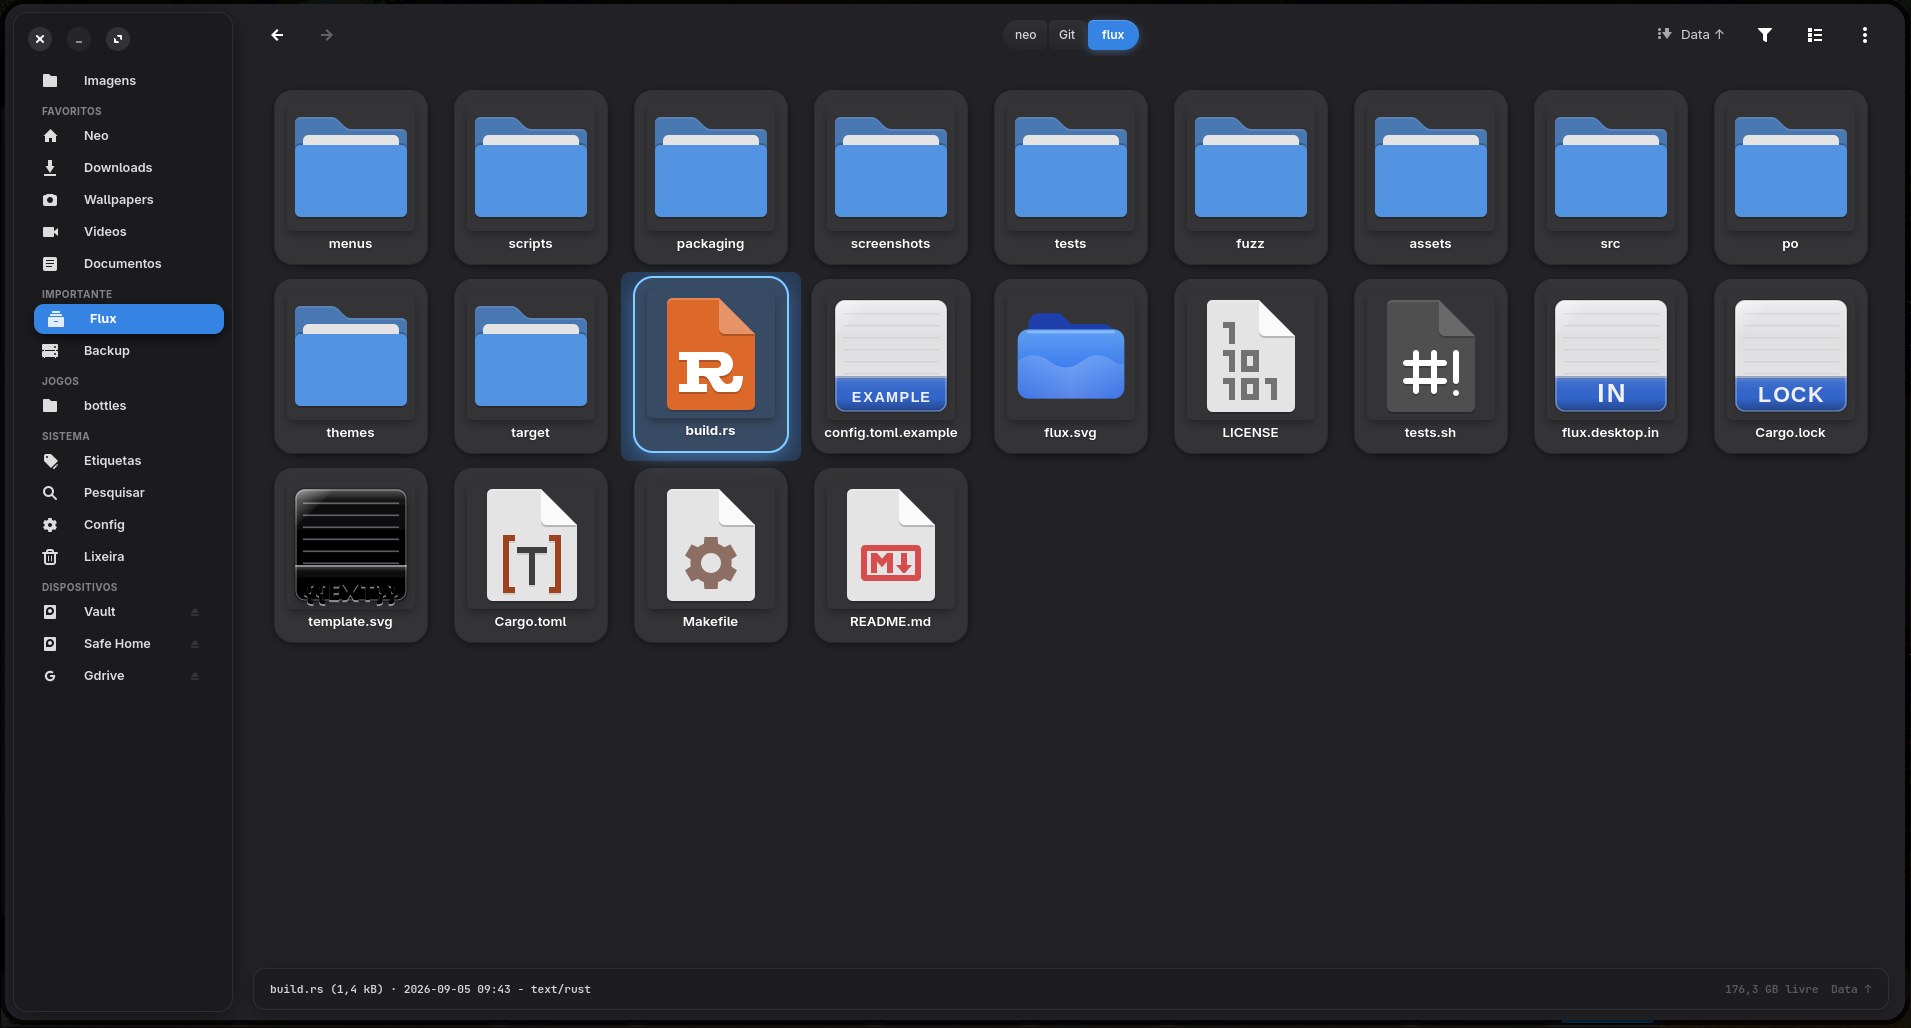
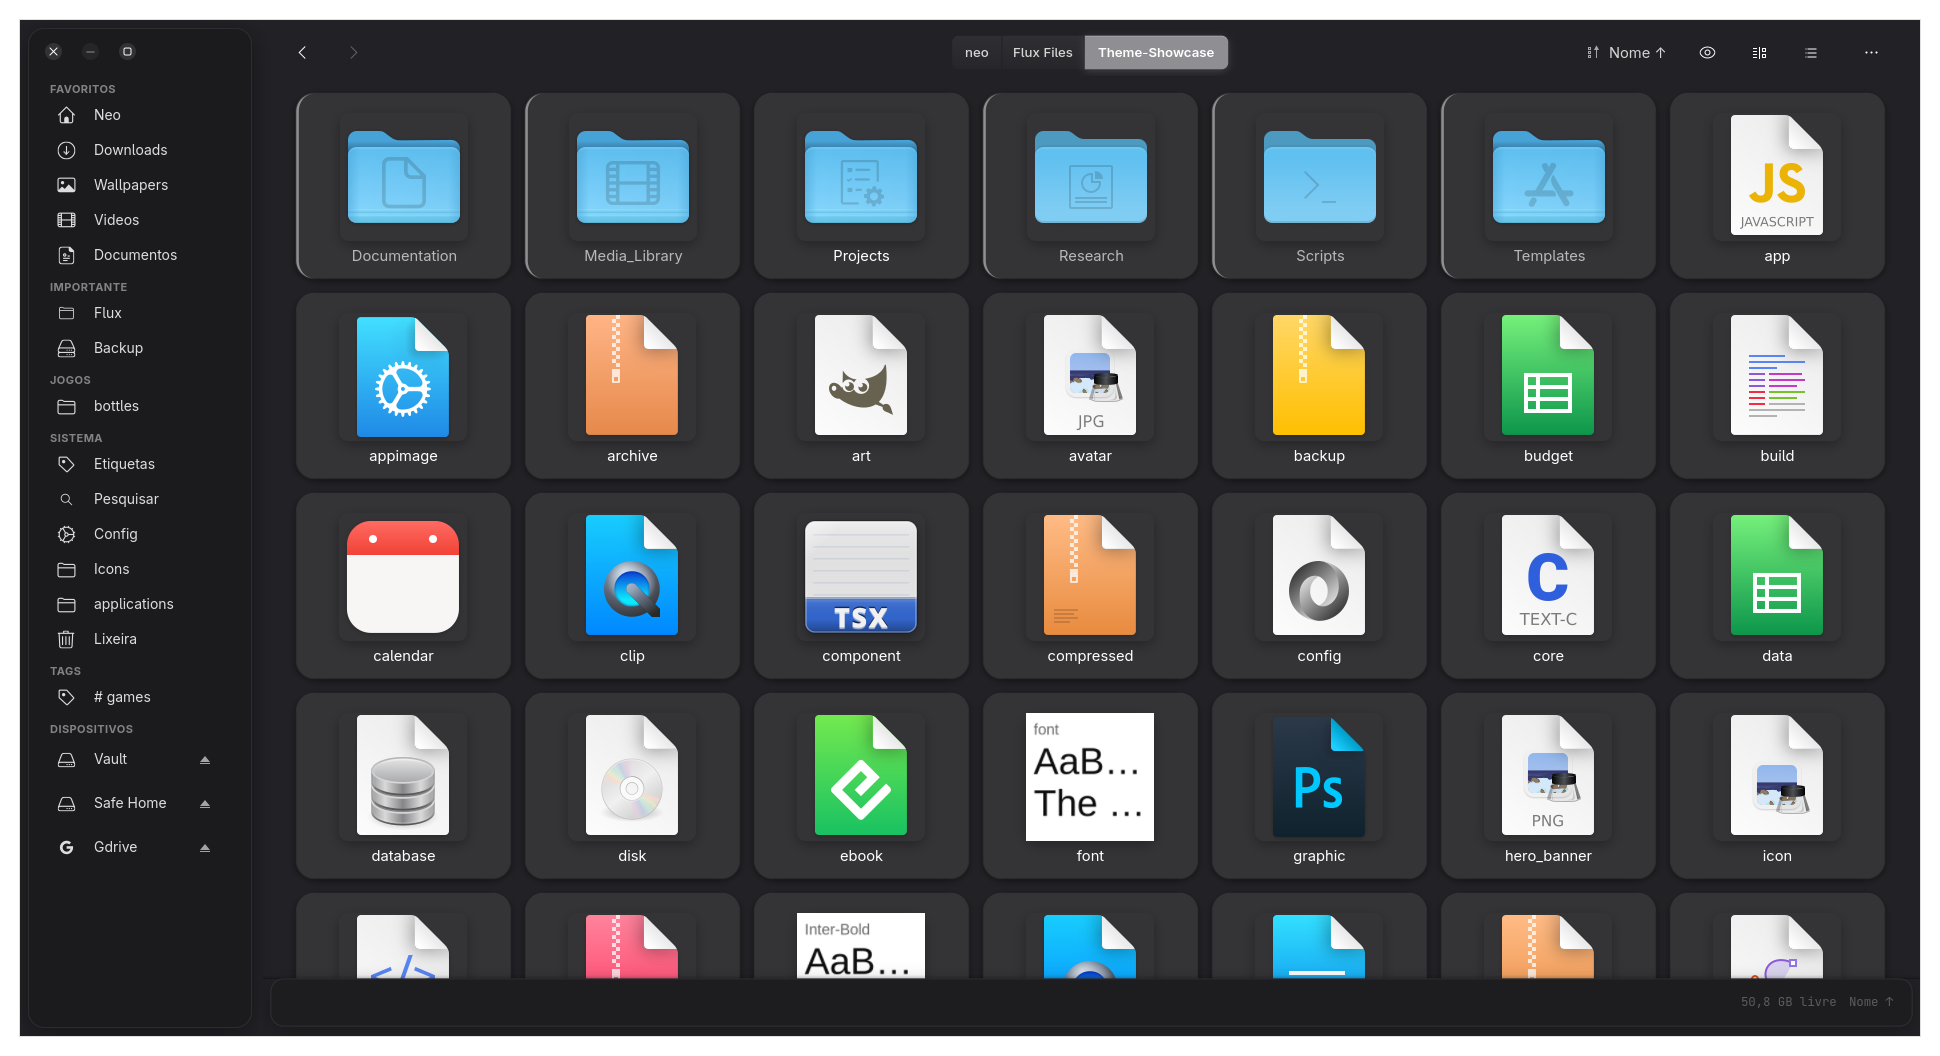
docs: refresh README screenshot to showcase new theme

diff --git a/README.md b/README.md
@@ -12,6 +12,8 @@ Flux is a GTK4/Libadwaita file manager for Linux, written in Rust. I wanted some
   </a>
 </p>
 
+> The icons shown in the screenshot are from [WhiteSur Icon Theme](https://github.com/vinceliuice/WhiteSur-icon-theme) (GPL-3.0).
+
 ## Startup time
 
 Cold start on a Ryzen 5 5600X, mean of 10 runs:
